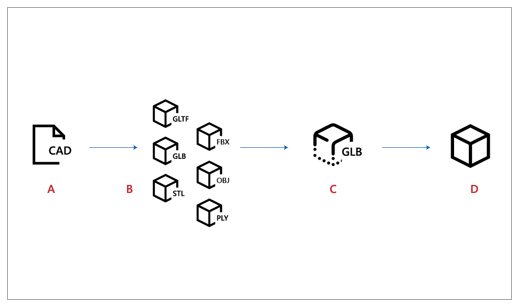
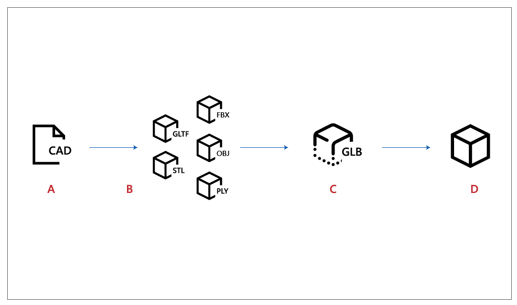
updated as per feedback

Changed region(s): [[0.2785, 0.2951, 0.4642, 0.7377]]

diff --git a/mr-docs/product-visualize/solidworks.md b/mr-docs/product-visualize/solidworks.md
@@ -131,21 +131,12 @@ After you optimize a 3D model, you can easily export it directly from SOLIDWORKS
 
 2. Select **Save**.
 
-## Other conversion options
-
-If you don't have SOLIDWORKS 2019 and the XR Exporter add-in, you need to do one of the following to convert your 3D model into a format that can be optimized:
-
-- If you don't need to see material color, you can export your model as an STL file and import it directly into Dynamics 365 Import Tool (Preview). If it doesn't perform well, you can import the STL file into a digital content creation (DCC) application and optimize it further. See a [list of tutorials](tutorials-overview.md) on how to optimize your 3D models by using DCC apps.
-
-- If you want to see material colors on your final product, you need to send your 3D model through a transcoder before optimizing it further. [This 3ds Max tutorial](3ds-max.md) walks you through the optimization and conversion process.
-
 ## View your 3D model in Dynamics 365 mixed-reality apps
 
 After you prepare a 3D model, you can use the following Dynamics 365 apps to view it in mixed reality:
 
 [Dynamics 365 Product Visualize](../product-visualize/index.md)<br> 
-[Dynamics 365 Guides](../guides/index.md)<br> 
-[Dynamics 365 Layout](../layout/index.md)
+[Dynamics 365 Guides](../guides/index.md)
 
 ### More information
 

diff --git a/mr-docs/product-visualize/inventor.md b/mr-docs/product-visualize/inventor.md
@@ -85,18 +85,20 @@ Next, you need to export the model to a usable format that can be read by mixed-
 Dynamics 365 mixed-reality apps use the GLB format for 3D models. You can convert your OBJ file to a GLB file by using a digital content creation (DCC) platform to convert your 3D models into GLB files. Using these software platforms is a manual process, but it gives you more opportunities for optimization. To assist with this process, see the following tutorials:
 
   - [Blender](blender.md)
-
   - [Autodesk 3ds Max](3ds-max.md)
+  - [SideFX Houdini](houdini.md) 
+  - [Agisoft Metashape](agisoft-metashape.md)
+  - [Inventor](inventor.md)
+  - [ReCap Photo](autodesk-recap-photo.md) 
+  - [Dassault Systèmes SOLIDWORKS](solidworks.md)
 
-  - [SideFX Houdini](houdini.md)
 
 ## View the 3D model in mixed reality
 
 After preparing the 3D model, you can learn more about using the following Dynamics 365 apps to view your 3D model in mixed reality:
 
 [Dynamics 365 Product Visualize](../product-visualize/index.md)<br> 
-[Dynamics 365 Guides](../guides/index.md)<br> 
-[Dynamics 365 Layout](../layout/index.md)
+[Dynamics 365 Guides](../guides/index.md)
 
 ### More information
 

diff --git a/mr-docs/product-visualize/overview-prepare-3d-model.md b/mr-docs/product-visualize/overview-prepare-3d-model.md
@@ -44,7 +44,7 @@ The following illustration shows a more detailed view of this process.
 > ![Overall flow](media/overall-flow.PNG "Overall flow") 
 
 **A.**	Create 3D models using the CAD software of your choice.<br>
-**B.**	Convert CAD files to one of these file formats: GLB, glTF, FBX, OBJ, STL, PLY.<br>
+**B.**	Convert CAD files to one of these file formats: glTF, FBX, OBJ, STL, PLY.<br>
 **C.**	3D models are optimized and converted into the GLB format.<br>
 **D.**	3D models are ready to be imported into [!include[pn-dyn-365](../includes/pn-dyn-365.md)] mixed-reality applications.
 

diff --git a/mr-docs/product-visualize/houdini.md b/mr-docs/product-visualize/houdini.md
@@ -213,8 +213,7 @@ Repeat this process with the rest of your 3D models to rapidly produce optimized
 After preparing your 3D models, you can learn more about using the following Dynamics 365 apps to view your 3D models in mixed reality:
 
 [Dynamics 365 Product Visualize](../product-visualize/index.md)<br> 
-[Dynamics 365 Guides](../guides/index.md)<br> 
-[Dynamics 365 Layout](../layout/index.md)
+[Dynamics 365 Guides](../guides/index.md)
 
 ### More information
 

diff --git a/mr-docs/product-visualize/3ds-max.md b/mr-docs/product-visualize/3ds-max.md
@@ -367,8 +367,7 @@ Now that the original mesh has been prepared, you need to create a copy of it to
 After you've prepared your 3D models, you can use the following Dynamics 365 apps to view them in mixed reality:
 
 [Dynamics 365 Product Visualize](../product-visualize/index.md)<br> 
-[Dynamics 365 Guides](../guides/index.md)<br> 
-[Dynamics 365 Layout](../layout/index.md)
+[Dynamics 365 Guides](../guides/index.md)
 
 ### More information
 

diff --git a/mr-docs/product-visualize/blender.md b/mr-docs/product-visualize/blender.md
@@ -251,8 +251,7 @@ The last step is to export the model to a GLB file so it can be used with Dynami
 After you've prepared a 3D model, you can learn more about using the following Dynamics 365 apps to view it:
 
 [Dynamics 365 Product Visualize](../product-visualize/index.md)<br> 
-[Dynamics 365 Guides](../guides/index.md)<br> 
-[Dynamics 365 Layout](../layout/index.md)
+[Dynamics 365 Guides](../guides/index.md)
 
 ### More information
 
